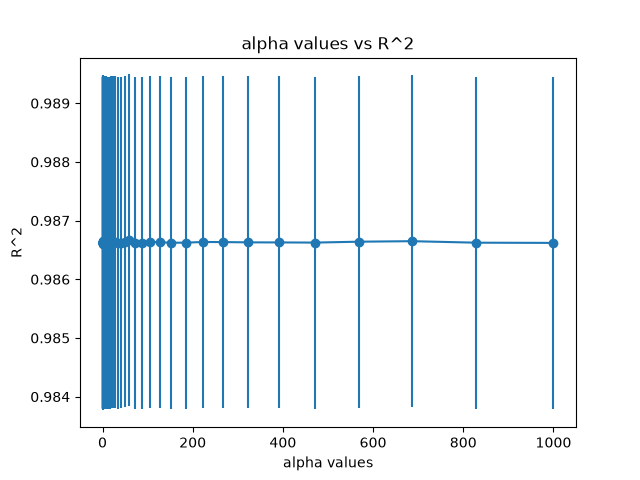
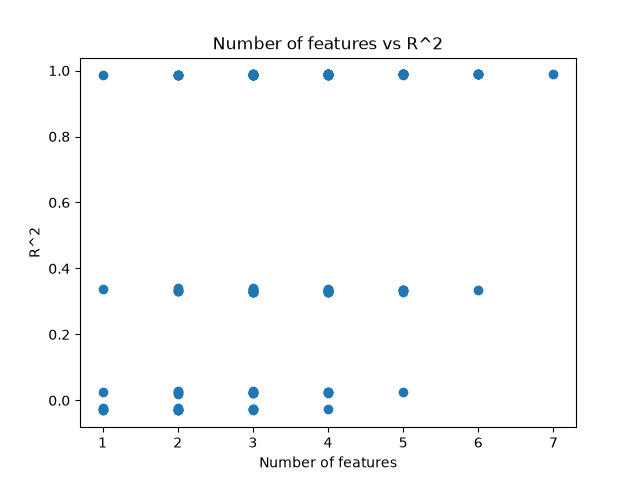
Updated and created new images

diff --git a/report/main.tex b/report/main.tex
@@ -171,10 +171,7 @@ The main idea is that a rectilinear cross is just solving a system of linear equ
 \[  y = \frac{c_{2} - c_{1} * \frac{a_{2}}{a_{1}}}{b_{2} - b_{1}} * \frac{a_{2}}{a_{1}}\]
 \[  x =  \frac{c_{1} - b_{1}y}{a_{1}}.\]
 
-Now, for $a_{1} = 0$, we just flip the order we solve for x and y, which will result in the code given in getCross.
-
-\subsection*{Appendix D - Why z-score fails}
-Earlier in my paper, I mentioned that I normalized my data by dividing by the maximum instead of using the z-score, and I will explain that here. If you look through my code, you will see that whenever I change a feature, I will mostly square it because that is what the data provides I do. So, if I first wanted to normalize my data and then look at the graphs, I would need a normalization metric that, when I multiply it, is the same as multiplying that data point, and for a z-score that is not the case. The reason why is that it subtracts the mean, so $z^2$ is the value minus the mean square which is not equal to the squared value minus the squared mean, and thus $z^2$ is not the value squared.  
+Now, for $a_{1} = 0$, we just flip the order we solve for x and y, which will result in the code given in getCross. 
 
 
 \printbibliography
